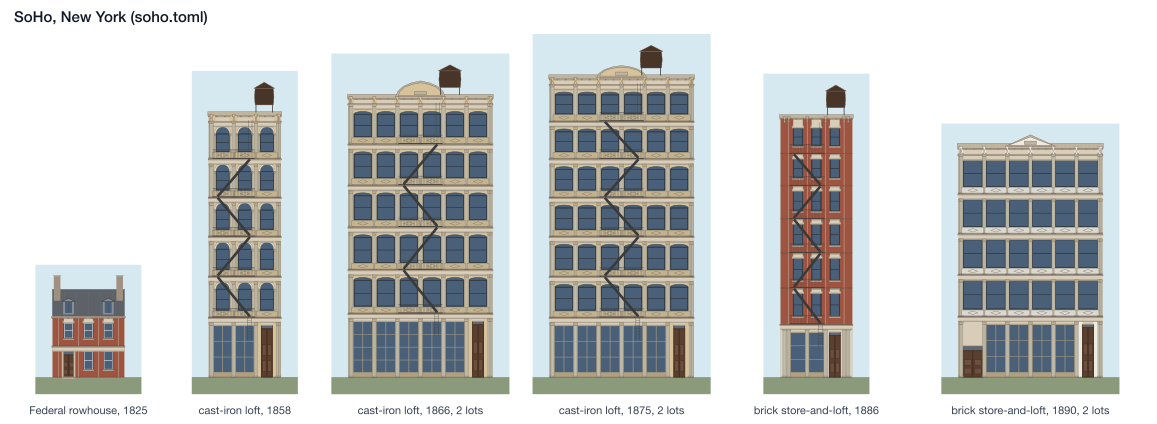
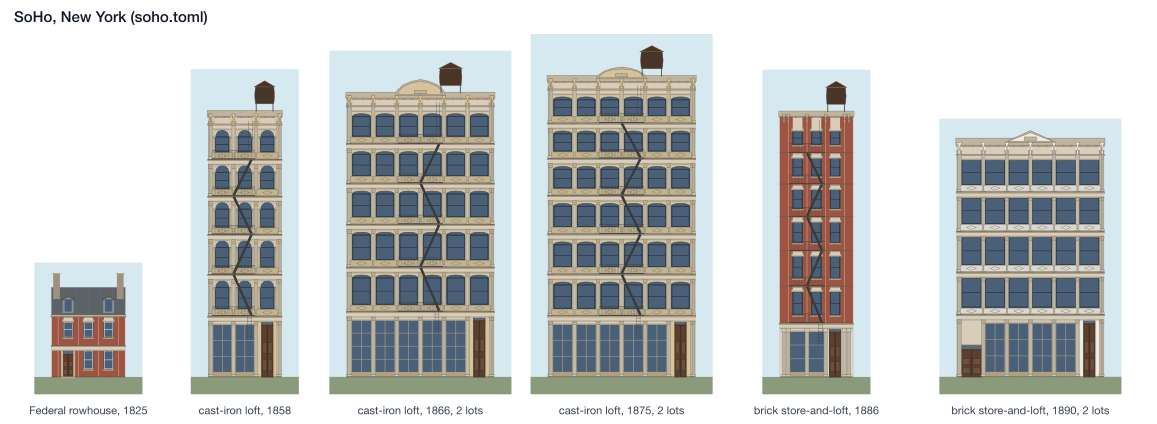
SoHo: round-3 results and final refinements
Round 3 (fresh judges): fair R 3.75 / P 3.0, sceptical none fail. Final
pass:
- the stair door fills to the store's lintel;
- columns carry real capitals and bases;
- a deeper cornice over its frieze;
- upper floors diminish;
- fire stairs at about 60 degrees over one bay, on most iron fronts.
See dev/fidelity/soho/SUMMARY.md.

diff --git a/tests/unit/test_soho.py b/tests/unit/test_soho.py
@@ -100,4 +100,4 @@ def test_storeys_get_shorter_as_they_climb():
         uppers = heights[1:]
         assert heights[0] > uppers[0], heights
         assert all(a > b for a, b in zip(uppers, uppers[1:])), heights
-        assert uppers[-1] / uppers[0] > 0.85, heights
+        assert 0.7 < uppers[-1] / uppers[0] < 0.95, heights

diff --git a/dev/fidelity/soho/round3/judge_fair.md b/dev/fidelity/soho/round3/judge_fair.md
@@ -1,0 +1,158 @@
+# SoHo round 3: blind judgement (fair judge)
+
+Judged from `images/img00.png` to `img15.png` only, against photographs on Wikimedia Commons. Flat colour rendering was ignored; the judgement covers massing, rhythm, proportion, hierarchy and characteristic elements.
+
+## Reference photographs used
+
+| Ref | Building | URL |
+|---|---|---|
+| A | E. V. Haughwout Building, 488 Broadway (1857, Venetian arched cast iron) | https://commons.wikimedia.org/wiki/File:E.V._Haughwout_Building_(52142427309).jpg |
+| B | 72-76 Greene Street, "King of Greene" (1873, cast iron, central portico pavilion) | https://commons.wikimedia.org/wiki/File:72_Greene_Street_from_south.jpg |
+| C | 28-30 Greene Street, "Queen of Greene" (1872, cast iron, mansard) | https://commons.wikimedia.org/wiki/File:28-30_Greene_Street.JPG |
+| D | Gunther Building, 469-475 Broome Street (1871-73, Neo-Grec cast iron) | https://commons.wikimedia.org/wiki/File:Gunther_Building_(12668867454).jpg |
+| E | Greene Street row: dated 1880 brick-faced loft beside a segmental-arched cast-iron front | https://commons.wikimedia.org/wiki/File:Cast_Iron_Buildings_-_SoHo_Historic_District.jpg |
+| F | Greene Street looking north (cast-iron fronts, fire escapes, brick neighbours) | https://commons.wikimedia.org/wiki/File:NYC_SoHo_Green_Street.jpg |
+| G | 68-70 Prince Street (Federal/early brick, simple stone lintels) | https://commons.wikimedia.org/wiki/File:68-70_Prince_Street.jpg |
+| H | 120-126 Prince Street (brick, corbelled cornice) | https://commons.wikimedia.org/wiki/File:120_-_126_Prince_Street.jpg |
+
+## Overall verdict
+
+Every drawing reads at once as **Lower Manhattan, SoHo / Cast Iron Historic District, c. 1855-1885**. The set has two families: cast-iron lofts (00, 01, 04, 06, 07, 12, 14, 15) and brick tenements or store-and-loft buildings over a cast-iron shopfront (02, 03, 05, 08, 09, 10, 11, 13). Recognisability is high. Plausibility is held back by a short list of repeated tells (ranked below), most of which sit at the cornice, the column capitals and the ground floor. None of the 16 passes an expert as a real building without flaws; the three narrow cast-iron fronts (06, 12, 15) come closest.
+
+## Per drawing
+
+**img00**: SoHo/Broadway cast-iron loft, Italianate, c. 1865-70. 6 bays, 4 loft storeys over a shopfront, segmental pediment with nameplate on the cornice. **R 4 · P 3 · WITH FLAWS.**
+- The pilasters have no capitals, only a small trapezoid block. Every real front (A, B, C, F) has a full Corinthian or Composite capital, which is the strongest sign of the type.
+- The segmental window heads are a blue cap sitting on a rectangular sash, with no archivolt moulding and no keystone. Compare the moulded arches on C and the cast-iron front in E.
+- All four upper storeys are the same height. In C the storeys clearly diminish upward.
+- At the ground floor a door sits low in the left bay with a blank cream panel above it, beside full-height shop glazing (see Giveaway 1).
+- The segmental pediment is a good touch and a plausible centre emphasis.
+
+**img01**: Same type, c. 1860-70, with balustraded sill panels in the manner of the Haughwout. Water tower. **R 4 · P 3 · WITH FLAWS.**
+- Same capital-less pilasters and frameless segmental caps as 00. The balustrades sit inside the bay as flat panels; on the Haughwout (A) the balustrade runs as a continuous projecting balcony band over the entablature, broken only by column pedestals.
+- The water tower legs stand on the cornice line in front of the parapet. In a true elevation the tank sits set back, its legs hidden behind the cornice.
+- The ground floor (5 shop bays plus a framed door) is the most believable in the set.
+
+**img02**: Lower Manhattan / South Village old-law tenement, c. 1880-95. 3 bays, 5 storeys of red brick over a cast-iron shopfront, full-width fire escape. **R 4 · P 3 · WITH FLAWS.**
+- The top-floor lintels are tall plain blocks that run up into the cornice, and there is no frieze. Real tenements (E, left building, dated 1880 in its frieze) have a continuous panelled frieze 0.6-0.9 m deep under the cornice, with brick between the top lintels and that frieze.
+- The cornice brackets are not aligned with the bays (paired at the ends, then irregular).
+- Faint hairlines on the brick at the bay lines read like panel joints and suggest precast panels rather than brick.
+- The fire-escape stairs slope at about 38°, across nearly the full balcony. Real NYC escape stairs are steep (about 55-65°) and run about one bay. Compare E and F.
+- Clustered paired pilasters at both ends of the shopfront appear here and on every brick drawing. That is plausible once, but it has become a stamp.
+
+**img03**: Buff-brick store-and-loft building, c. 1870-80. 11 bays, 5 storeys, fire escape over 3 bays, water tower. **R 3 · P 2 · NO.**
+- These are tenement-sized punched windows (void about 50% of bay width) stretched across 11 bays. Real brick lofts of this width (E, left building) have larger windows with moulded or pedimented lintels and a void of about 60-65%, often with segmental arches. As drawn, it reads as a tenement copied sideways.
+- 11 identical bays with no centre or end emphasis, and no frieze under the cornice.
+- The floor lines are drawn as hairlines across the brick, with no string course or sill course.
+
+**img04**: Venetian-palazzo cast iron, c. 1857-70, closest in vocabulary to the Haughwout (A). 9 bays, 5 loft storeys, round-arched windows with archivolts and imposts. **R 4 · P 3 · WITH FLAWS.**
+- A 9-bay front with no centre pavilion, end pavilions or pediment. The wide real fronts (B: projecting 3-bay portico with pediment; C: three mansard pavilions) always mark a hierarchy.
+- The arched windows are framed by small flat strips. On A each arch springs from engaged colonnettes with capitals, and the larger columns between bays carry their own capitals.
+- The ground floor has only one door in 9 bays, at the extreme left. A front this wide normally has a central or second loft entrance.
+
+**img05**: 7-bay red-brick tenement or store-and-loft building, c. 1875-90, fire escape over the central 3 bays, water tower. **R 4 · P 3 · WITH FLAWS.**
+- Same frieze-less cornice with tall top lintels, hairlines on the brick and shallow fire-escape stairs as 02.
+- The left door has a blank panel above it.
+- All the lintels in the set are the same simple shelf. Real examples vary (E: eared, pedimented; G: plain stone; Neo-Grec incised on many Broome Street tenements).
+
+**img06**: Narrow Neo-Grec cast-iron loft, c. 1875-85 (a Greene/Mercer Street type). 3 bays, 5 loft storeys, flat-headed wide windows, fire escape over 2 bays. **R 4 · P 4 · WITH FLAWS.**
+- This is the strongest drawing. The proportions (large void, thin piers, diamond spandrel panels) match the later Greene Street fronts and D.
+- The pilasters still have no capitals, and the inter-storey entablatures are flat bands with no cornice moulding or projection line.
+- The fire-escape gooseneck ladder stops below the cornice. It should rise over the parapet.
+
+**img07**: 3-bay cast iron with segmental heads, c. 1870, full-width fire escape. **R 4 · P 3 · WITH FLAWS.**
+- The ground floor has two doors in three bays (one low, under a blank panel; one in a black recess) and only one shop bay. On a 25 ft front that is one door too many.
+- The thin dark outline down the ground-floor edges reads as a drawing artefact.
+- It has the same frameless segmental caps as 00.
+
+**img08**: 7-bay brick tenement or loft, c. 1870-85, no fire escape, no tower. **R 3 · P 3 · WITH FLAWS.**
+- A 6-storey, 7-bay walk-up on a SoHo street front with no fire escape is unusual. The frieze-less cornice and hairline grid are the same as in 02.
+- The ground floor (door plus 6 shop bays) is reasonable.
+
+**img09**: 7-bay brick, c. 1875-90, fire escape over 2 bays, doors at both ends. **R 4 · P 3 · WITH FLAWS.**
+- The right door sits under a blank panel. The other issues are the same as 05.
+
+**img10**: 3-bay brick tenement, c. 1870-85, no fire escape. **R 3 · P 2 · NO.**
+- The ground floor has two doors of different heights (one full height, one low under a blank panel) flanking a single shop bay. No real 25 ft storefront looks like this.
+- A 5-storey, 3-bay tenement with no front fire escape is possible but uncommon.
+- The cornice and frieze have the same problem as 02.
+
+**img11**: 7-bay brick, c. 1875-90, 1-over-1 sash, fire escape over the left 3 bays. **R 4 · P 3 · WITH FLAWS.**
+- The 1/1 sash is a believable later replacement. The cornice, frieze and fire-escape angle have the same faults as 02.
+
+**img12**: Narrow cast iron with segmental heads, c. 1870-80, 3 bays, 1/1 sash, fire escape over 2 bays. **R 4 · P 4 · WITH FLAWS.**
+- The massing and void ratio are good. The segmental caps have no archivolt, the pilasters have no capitals, and the storeys are all the same height.
+- The ground floor (2 shop bays plus a framed door) is believable.
+
+**img13**: 11-bay red-brick tenement or loft, c. 1875-90, fire escape over the left 3 bays, doors at both ends. **R 3 · P 2 · NO.**
+- If residential, an 11-bay tenement front with a single fire escape over 3 bays cannot serve the apartments in the other 8 bays. Real wide tenements carry 2-3 escapes or are several buildings of 3-5 bays with party-wall breaks and separate cornices.
+- If a loft, the windows are too small (the same issue as 03).
+- The left door has a blank panel above it, and there is no hierarchy across 11 bays.
+
+**img14**: Venetian arched cast iron with balustrade panels, c. 1857-70, 6 bays. **R 4 · P 3 · WITH FLAWS.**
+- This is a good Haughwout echo. The issues are missing capitals, constant storey heights, the left door under a blank panel, and the balustrade drawn as an in-bay panel rather than a continuous balcony band.
+
+**img15**: Narrow Neo-Grec cast iron, c. 1875-85, 3 bays, full-width fire escape. **R 4 · P 4 · WITH FLAWS.**
+- Along with 06, the most convincing in the set. The fire escape behaves well over the large windows, and the ground floor (2 shop bays plus a framed door) is right.
+- The issues are capital-less pilasters, flat entablatures, shallow stairs and the gooseneck stopping short.
+
+## Top giveaways across all 16, ranked, with fixes
+
+1. **The low door under a blank panel** (00, 03, 05, 07, 09, 10, 13, 14). This is the single most repeated tell. In every real storefront (D, E, F) the door and its transom fill the full opening up to the storefront lintel, level with the shop-glass heads.
+   *Fix:* door leaf height = 0.72-0.78 of the storefront clear height, with a glazed transom filling the rest. Never use an infill panel. Allow at most one door per 25 ft of frontage, plus one loft entrance per front.
+
+2. **No capitals on the cast-iron pilasters** (all 8 cast-iron drawings and every shopfront). Corinthian capitals are the defining mark of A, B, C and F.
+   *Fix:* capital height = 1.0-1.2 × shaft width, with an abacus 1.25-1.35 × shaft width and a plinth/base 0.5 × shaft width. At loft storeys use engaged three-quarter columns rather than flat strips on about 60% of fronts.
+
+3. **A cornice with no frieze, and top-floor lintels running into it** (02, 03, 05, 08, 09, 10, 11, 13).
+   *Fix:* add a continuous frieze 0.6-0.9 m deep (about 5-7% of facade height) under the cornice slab, with recessed panels between brackets placed exactly on the bay lines (paired at the ends). Keep at least 0.4 m of brick between the top-floor lintel and the frieze. Total cornice plus frieze should be 8-10% of facade height (it is about 5% now).
+
+4. **Fire-escape geometry** (02, 03, 05, 06, 07, 09, 11, 12, 13, 15). The stairs are about 38-42° and span 2-3 bays. Real NYC stairs are steep and short (E, F).
+   *Fix:* stair angle 55-65°, horizontal run about 0.55-0.65 × floor height (roughly 1 bay), alternating direction each floor and contained inside the balcony length. Run the gooseneck ladder up and over the parapet, about 1 m above the cornice top.
+
+5. **No hierarchy on wide fronts** (03, 04, 13, and 08/09/11 less so). Real 7+ bay fronts mark a centre or ends (B: projecting 3-bay portico with pediment; C: three mansard pavilions; E: pedimented centre on the cast-iron neighbour).
+   *Fix:* for 7+ bays, about 65% odds of a 3-bay centre pavilion (paired columns, pediment or raised cornice section) or 2 end pavilions (quoins or rusticated piers, as on the right of B). About 15% odds of a mansard on cast iron. For 9+ bay brick tenements, split the front into 2-3 party-wall units with separate cornices and fire escapes instead.
+
+6. **Uniform storey heights** (all 16).
+   *Fix:* ground floor 1.35-1.5 × the typical upper floor; second floor 1.1 ×; each floor above shrinking 3-6%; top floor about 0.85-0.9 × the second.
+
+7. **Segmental and arched heads without surrounds** (00, 01, 07, 12; the arched 04 and 14 are better).
+   *Fix:* draw an archivolt moulding 6-8% of window width, with a keystone on segmental heads, springing from the capitals or imposts. Make the upper sash follow the arch, framed in the sash colour, rather than a frameless cap above a rectangle.
+
+8. **Hairline grids on the brick** (all 8 brick drawings). They read as precast panel joints.
+   *Fix:* remove them. If floor lines are wanted, use a real sill course (a stone band about 0.15 m) on about 40% of buildings.
+
+9. **Brick lofts with tenement windows** (03, 13, partly 08).
+   *Fix:* in store-and-loft brick (6+ bays), use a window-to-bay void of 0.6-0.65, with segmental-arched or pedimented and eared lintels (E). Keep the 0.5 void and shelf lintels for 3-5 bay tenements only.
+
+10. **One vocabulary across the whole set.** The same lintel, the same panelled double door and the same paired end pilasters appear on every brick front, and the same flat pilaster on every iron front. Shown side by side, the set reads as one kit.
+    *Fix:* use at least 3 lintel families (plain stone shelf, bracketed Italianate cap, eared/pedimented Neo-Grec), chosen per building. Make about 50% of doors glazed. Use single end piers on about 60% of shopfronts.
+
+11. **Missing street-level SoHo signs.** None of the drawings has a raised loading platform with vault lights and steps, and the storefront bulkheads are very thin.
+    *Fix:* on about 50% of cast-iron lofts, add a raised platform 0.5-0.9 m high across the front with 2-4 steps at one end. Make the bulkhead 0.5-0.7 m.
+
+12. **Water tanks in front of the parapet** (01, 03, 05).
+    *Fix:* set the tank back so the legs are hidden behind the cornice and only the tank and roof show. Tanks should appear on about 50% of buildings, not 3 of 16.
+
+## Scores at a glance
+
+| img | Guess | R | P | Expert at a glance |
+|---|---|---|---|---|
+| 00 | Cast-iron loft, pediment, c.1865 | 4 | 3 | WITH FLAWS |
+| 01 | Cast-iron loft, balustrades, c.1860 | 4 | 3 | WITH FLAWS |
+| 02 | 3-bay tenement, c.1885 | 4 | 3 | WITH FLAWS |
+| 03 | 11-bay buff brick loft, c.1875 | 3 | 2 | NO |
+| 04 | 9-bay Venetian cast iron, c.1860 | 4 | 3 | WITH FLAWS |
+| 05 | 7-bay brick, c.1880 | 4 | 3 | WITH FLAWS |
+| 06 | 3-bay Neo-Grec cast iron, c.1880 | 4 | 4 | WITH FLAWS |
+| 07 | 3-bay segmental cast iron, c.1870 | 4 | 3 | WITH FLAWS |
+| 08 | 7-bay brick, c.1875 | 3 | 3 | WITH FLAWS |
+| 09 | 7-bay brick, c.1880 | 4 | 3 | WITH FLAWS |
+| 10 | 3-bay tenement, c.1875 | 3 | 2 | NO |
+| 11 | 7-bay brick, c.1880 | 4 | 3 | WITH FLAWS |
+| 12 | 3-bay segmental cast iron, c.1875 | 4 | 4 | WITH FLAWS |
+| 13 | 11-bay brick tenement/loft, c.1880 | 3 | 2 | NO |
+| 14 | 6-bay Venetian cast iron, c.1860 | 4 | 3 | WITH FLAWS |
+| 15 | 3-bay Neo-Grec cast iron, c.1880 | 4 | 4 | WITH FLAWS |
+
+Mean R 3.75, mean P 3.0. Fixing giveaways 1-4 alone would likely lift most drawings to P 4.

diff --git a/dev/fidelity/soho/round3/judge_sceptical.md b/dev/fidelity/soho/round3/judge_sceptical.md
@@ -1,0 +1,155 @@
+# SoHo round 3: sceptical blind judgement
+
+Judge: independent architectural-historian pass, blind. I looked only at `images/img00.png` to `img15.png` and at reference photographs from Wikimedia Commons. Every drawing was treated as fake until it convinced me. Flat colour rendering was ignored; massing, rhythm, proportion, hierarchy and characteristic elements were judged.
+
+## Reference photographs used
+
+| Ref | Building | What it shows | URL |
+|---|---|---|---|
+| A | E. V. Haughwout Building, 488 Broadway (1857) | Round-arched bays framed by small colonnettes between larger engaged columns; balustrade at every sill; projecting entablature at every floor; deep modillioned cornice; front fire escape | https://commons.wikimedia.org/wiki/File:E._V._Haughwout_Building,_1.JPG |
+| B | 28-30 Greene Street (1872) | Segmental-arched sash that follows the arch; Corinthian capitals on every column; diamond sill panels; ground floor raised on a full-width loading platform with steps; doors with tall transoms | https://commons.wikimedia.org/wiki/File:28-31_Greene_Street.JPG |
+| C | 72-76 Greene Street (1873) | Projecting central pavilion with coupled columns and pediment; rusticated end piers; cantilevered fire-escape balconies; storeys that visibly diminish upward | https://commons.wikimedia.org/wiki/File:72_Greene_Street_from_south.jpg |
+| D | Gunther Building, 469-475 Broome Street (1871-73) | Segmental arched heads on every opening; deep frieze and bracketed cornice | https://commons.wikimedia.org/wiki/File:469-475_Broome_Street.JPG |
+| E | Greene Street row (painted brick next to cast iron) | Brick loft with pedimented and cornice-headed lintels, front fire escape with stair stringers and handrails, ground floor of cast-iron columns with capitals | https://commons.wikimedia.org/wiki/File:Cast_Iron_Buildings_-_SoHo_Historic_District.jpg |
+| F | Broome and Mercer corner, stone/iron palazzo | Paired columns per bay, balustraded sill course, cornice band roughly a third of a storey deep | https://commons.wikimedia.org/wiki/File:SoHo,_Mercer_str_%26_Broome_str_-_panoramio.jpg |
+
+## Per-drawing verdicts
+
+R = recognisability (1-5), P = plausibility (1-5).
+
+### img00
+- **Guess:** New York, SoHo, cast-iron store-and-loft, 6 bays, 5 storeys, c. 1868-75.
+- **R 4, P 3. Expert at a glance: WITH FLAWS.**
+- **Giveaways:**
+  - The windows are flat-headed rectangles with a thin segmental "lid" stuck on top. In B and D the opening itself is segmental and the sash follows the curve; here the arch is an applique.
+  - The central segmental pediment sits on the cornice like a hat, about 2 bays wide, with no answering projection in the floors below. In C the pediment crowns a projecting pavilion that runs the full height.
+  - Cornice band (slab plus brackets) is about 0.15 of a storey; in A, D and F it is roughly 0.35-0.45.
+  - All four upper storeys are identical in height; C and A both diminish.
+  - Left entrance: a short door with a blank panel filling about 40% of the bay height above its transom. Real SoHo doors are tall with deep glazed transoms (B).
+  - Pilasters have block caps, not Corinthian capitals; there is no floor-by-floor projecting entablature.
+
+### img01
+- **Guess:** New York, SoHo, cast-iron loft, 6 bays, 5 storeys, c. 1870, rooftop water tank.
+- **R 4, P 3. WITH FLAWS.**
+- **Giveaways:** same applique segmental lids on flat-headed sash; thin cornice; uniform storeys; plain pilasters without capitals. Balustraded sill panels are right (A). The storefront has no left entrance at all, so the 6-bay front has one narrow door at the right edge; a front this wide almost always has two (B, C). No fire escape on a 6-bay, 5-storey front, which is unusual (A and C both carry one).
+
+### img02
+- **Guess:** New York, red-brick Italianate, 3 bays, 6 storeys, cast-iron shopfront, c. 1855-70. Reads as much Lower East Side tenement as SoHo loft.
+- **R 3, P 3. WITH FLAWS.**
+- **Giveaways:**
+  - The top-floor lintels swell into tall blank blocks running up to the cornice. I found no SoHo precedent; E shows uniform lintels and a separate frieze.
+  - Cornice is a thin slab with small teardrop brackets; no frieze, no modillions.
+  - Fire-escape stairs are drawn as a single diagonal line with no second stringer or handrail (compare E, where each run is a clear band with rails).
+  - Faint vertical lines at every pier read as panel joints, not brickwork.
+
+### img03
+- **Guess:** New York, painted-brick loft, 11 bays, 6 storeys, c. 1860s.
+- **R 3, P 2. WITH FLAWS.**
+- **Giveaways:** horizontal lines drawn across the brick at every floor (painted brick shows no floor joints); windows only about 40% of bay width, a tenement ratio rather than a loft ratio (lofts in E and F are 55-70%); 11 identical bays with no central emphasis, no end piers and no change of rhythm; the fire escape is pinned to the three left bays of an 11-bay front with nothing else breaking it. Left door has the same blank panel above it.
+
+### img04
+- **Guess:** New York, SoHo, cast-iron "Venetian palazzo", 9 bays, 5 storeys, c. 1857-65, Haughwout-derived.
+- **R 4, P 3. WITH FLAWS.**
+- **Giveaways:** Haughwout (A) is the obvious model, but its defining feature, the small colonnettes framing every arch inside the larger order, is missing; arches have a white archivolt but no keystone or impost block; the arched head is a blue cap above a rectangular sash rather than an arched sash. Only one entrance on a 9-bay front, at the far left. No fire escape. All five storeys equal.
+
+### img05
+- **Guess:** New York, red-brick loft, 7 bays, 5 storeys, cast-iron ground floor, central fire escape, water tank, c. 1860s.
+- **R 3, P 3. WITH FLAWS.**
+- **Giveaways:** tall top-floor lintel blocks again; thin cornice; single-line fire-escape stairs; the left door with a blank wall above. The central 3-bay fire escape and the drop ladder in front of the shop glass are both right.
+
+### img06
+- **Guess:** New York, narrow cast-iron front, 3 bays, 6 storeys, c. 1875-85.
+- **R 3, P 3. WITH FLAWS.**
+- **Giveaways:** plain flat-headed openings with no arch, no colonnettes and no capitals read later and plainer than SoHo's cast iron (closer to 1890s Tribeca or a generic commercial front); diamond spandrels are good (B). Fire escape over two bays is right for a 25-ft lot, but its stair is a single line.
+
+### img07
+- **Guess:** New York, SoHo, narrow cast-iron front, 3 bays, 5 storeys, c. 1870.
+- **R 4, P 3. WITH FLAWS.**
+- **Giveaways:** applique segmental lids; full-width fire escape good; the right door is framed in heavy black jambs that read as a modern insertion beside a 19th-century left door with a blank panel above it, so the ground floor looks half-renovated. Thin cornice.
+
+### img08
+- **Guess:** New York, red-brick loft, 7 bays, 5 storeys, c. 1860s.
+- **R 3, P 3. WITH FLAWS.**
+- **Giveaways:** top-floor lintel blocks; thin cornice; drawn floor lines and pier lines on the brick; identical lintels on every floor (no hierarchy between the second floor and the top, which E shows). No fire escape on a 5-storey 7-bay front: possible, but not the norm.
+
+### img09
+- **Guess:** New York, red-brick loft, 7 bays, 5 storeys, central fire escape, c. 1860s.
+- **R 3, P 3. WITH FLAWS.**
+- **Giveaways:** close-up shows the cornice is a ~45 px slab on a ~500 px storey (about 0.09 storey), with ~55 px brackets; total about 0.2 storey. Ground-floor right door is short with a blank panel above it. Otherwise the most convincing of the brick set: good fire-escape placement, cast-iron pilasters at ground floor, ground storey about 1.35 times an upper storey.
+
+### img10
+- **Guess:** New York, red-brick, 3 bays, 5 storeys, c. 1860s.
+- **R 3, P 3. WITH FLAWS.**
+- **Giveaways:** two doors of different heights and one shop window on a 3-bay ground floor is plausible, but the right double door with a blank panel above reads as a filler. No fire escape on a narrow 5-storey front is the rarer case. Thin cornice, top-floor lintel blocks.
+
+### img11
+- **Guess:** New York, red-brick loft, 7 bays, 5 storeys, fire escape at left, c. 1860s.
+- **R 3, P 3. WITH FLAWS.**
+- **Giveaways:** the same lintel, cornice, bracket and ground-floor template as img08, img09 and img13; seen together the set is visibly one recipe. Single-line stairs.
+
+### img12
+- **Guess:** New York, SoHo, narrow cast-iron front, 3 bays, 6 storeys, c. 1870.
+- **R 3, P 2. WITH FLAWS.**
+- **Giveaways:** the right bay alone has a solid grey spandrel with a round medallion while the other two have balusters behind the fire escape; it reads as a rendering fault, not a design. The right door has grey jambs unlike anything else on the front.
+
+### img13
+- **Guess:** New York, red-brick store-and-loft, 11 bays, 5 storeys, c. 1860s.
+- **R 3, P 3. WITH FLAWS.**
+- **Giveaways:** 11 identical bays with no centre, end piers or pavilion; a nine-bay continuous shopfront under one lintel; one 3-bay fire escape at the left. Thin cornice and tall top lintels.
+
+### img14
+- **Guess:** New York, SoHo, cast-iron Venetian palazzo, 6 bays, 5 storeys, c. 1857-65.
+- **R 4, P 3. WITH FLAWS.** The strongest drawing in the set.
+- **Giveaways:** close-up shows the arch is a blue semicircle sitting on a square sash with a transom bar at the springing line; in A the sash itself is arched. Pilasters are plain shafts with a block cap; A and B have full Corinthian capitals. Cornice brackets are baluster-shaped "dumbbells"; real cornice brackets are scrolled consoles with modillions and dentils between (A, D). Left door with blank panel above.
+
+### img15
+- **Guess:** New York, narrow cast-iron front, 3 bays, 6 storeys, c. 1875-85.
+- **R 3, P 3. WITH FLAWS.**
+- **Giveaways:** same as img06: flat heads, no order, reads later and plainer than SoHo cast iron; single-line fire-escape stairs; thin cornice.
+
+## Summary
+
+| img | Type | R | P | Glance |
+|---|---|---|---|---|
+| 00 | cast iron, 6 bay, pediment | 4 | 3 | WITH FLAWS |
+| 01 | cast iron, 6 bay, tank | 4 | 3 | WITH FLAWS |
+| 02 | brick, 3 bay | 3 | 3 | WITH FLAWS |
+| 03 | painted brick, 11 bay | 3 | 2 | WITH FLAWS |
+| 04 | cast iron arcade, 9 bay | 4 | 3 | WITH FLAWS |
+| 05 | brick, 7 bay | 3 | 3 | WITH FLAWS |
+| 06 | cast iron, 3 bay, flat | 3 | 3 | WITH FLAWS |
+| 07 | cast iron, 3 bay | 4 | 3 | WITH FLAWS |
+| 08 | brick, 7 bay | 3 | 3 | WITH FLAWS |
+| 09 | brick, 7 bay | 3 | 3 | WITH FLAWS |
+| 10 | brick, 3 bay | 3 | 3 | WITH FLAWS |
+| 11 | brick, 7 bay | 3 | 3 | WITH FLAWS |
+| 12 | cast iron, 3 bay | 3 | 2 | WITH FLAWS |
+| 13 | brick, 11 bay | 3 | 3 | WITH FLAWS |
+| 14 | cast iron arcade, 6 bay | 4 | 3 | WITH FLAWS |
+| 15 | cast iron, 3 bay, flat | 3 | 3 | WITH FLAWS |
+
+Every drawing reads at once as New York, and none would fool a specialist. None is a NO: a lay viewer would accept all sixteen. The cast-iron fronts are recognisably SoHo; the brick fronts are recognisably New York but drift towards tenement.
+
+## Top giveaways across the set, ranked, with fixes
+
+1. **Cornice far too shallow (all 16).** Measured about 0.09 storey for the slab and about 0.2 storey including brackets. Fix: cornice zone (frieze plus brackets plus crown) at 0.35-0.45 of the top storey's height; frieze 0.15 storey; scrolled console brackets 0.2-0.25 storey tall, spaced at every pier plus one or two between; crown projection at least 0.6 times its own height; add a modillion or dentil row under the crown.
+
+2. **Arches are lids, not openings (00, 01, 04, 07, 12, 14).** Fix: make the sash follow the head. Segmental heads with a rise of 0.12-0.18 of the opening width for the common SoHo type (B, D); full semicircles only for the palazzo type (A), and then with an arched upper sash, a keystone and impost blocks. Odds: segmental 70%, round 20%, flat 10% for cast iron.
+
+3. **No classical order on cast-iron piers (all cast iron).** Fix: give every pier an engaged column or pilaster with a Corinthian capital (capital height about 1.1 times shaft diameter) and a projecting entablature at each floor (0.08-0.1 storey). For the round-arch type, add colonnettes framing each arch (A). Add rusticated or quoined end piers on about 40% of fronts (C).
+
+4. **Blank panel above short doors (00, 03, 05, 07, 09, 10, 13, 14).** Fix: run the door plus transom to the full storefront height; transom 0.25-0.35 of the opening, glazed. Never leave solid infill above a door in a cast-iron storefront.
+
+5. **Equal storey heights (all 16).** Fix: second floor 1.0, then 0.96, 0.92, 0.88, top 0.85 (or a 4% step); ground floor 1.3-1.45 times the second floor. Keep the cornice tied to the top storey after the change.
+
+6. **Fire-escape stairs drawn as one line (02, 05, 06, 07, 09, 11, 12, 13, 15).** Fix: draw each run as a band about 0.08 storey thick with two stringers and a handrail, treads hinted. Odds of a front fire escape: 85% on 3-bay fronts, 65% on wider cast-iron fronts (currently 0 of 5 wide cast-iron fronts have one).
+
+7. **Tall blank top-floor lintel blocks on brick fronts (02, 05, 08, 09, 10, 11, 13).** Fix: top-floor lintels the same height as the others, about 0.12 of the window height, with a separate frieze band beneath the cornice. Vary the brick-front lintel type per building: cornice-head 50%, pedimented 25%, segmental 25% (E).
+
+8. **No raised ground floor or loading platform (all 16).** Fix: raise the shop floor 0.6-1.0 m above the sidewalk with a full-width iron platform or 2-4 steps (B), plus a vault-light strip, on about 60% of fronts.
+
+9. **Repetition across the set (brick fronts 05, 08, 09, 11, 13 and storefronts generally).** Same paired fluted end pilasters, same teardrop brackets, same lintel profile. Fix: vary bracket form (scroll, paired, foliate), ground-floor column type and end-pier treatment per building; give fronts of 7 or more bays a central emphasis (wider centre bay, pediment, or projecting pavilion as in C) about half the time.
+
+10. **Wide fronts with a single entrance and tenement window ratios (01, 03, 04).** Fix: two entrances on fronts of 6 or more bays (one to the store, one to the upper lofts); upper-floor glazing 55-70% of bay width on lofts (03 is near 40%).
+
+11. **Inconsistent bay (12).** Fix: spandrel treatment must be identical across bays unless it marks an axis.

diff --git a/dev/fidelity/soho/SUMMARY.md b/dev/fidelity/soho/SUMMARY.md
@@ -1,0 +1,27 @@
+# SoHo cast iron: three review rounds
+
+R is recognisability and P is plausibility, each out of 5. Each round's key sits beside its images.
+
+| Round | Method | Result |
+|---|---|---|
+| Round 1 | A photo-only observer, an adversary testing the rules against photographs, and a grader | Ironwork D. Proportions, openings, ground floor, top, ornament and variety C. Colour B (`grading.md`) |
+| Round 2 | 16 blind drawings, two judges | Fair judge: R 3.6, P 2.6 (iron fronts P 3, masonry P 2), none clean. Sceptical judge: R 3.4, P 2.8, 5 fail (four brick lofts without lintels, a pediment on plain brick) |
+| Round 3 | 16 fresh blind drawings, two new judges | Fair judge: R 3.75, P 3.0, three at P 4. Sceptical judge: none fail, all 16 with flaws |
+
+## After round 3 (applied, not judged again)
+
+- **Stair door:** the door and its transom now fill the opening up to the store's lintel, with no blank panel over the door.
+- **Columns:** loft columns have real capitals (0.38 m) and bases.
+- **Cornice:** it projects 1.4 m on iron fronts and 1.2 m on brick ones, over a deeper frieze. A brick top floor leaves 0.3 m of wall under it.
+- **Storey heights:** upper floors diminish about 4% a floor.
+- **Fire escapes:**
+  - Each stair now runs at about 60° across one bay, drawn as two stringers.
+  - Fire escapes appear on 70% of iron fronts.
+
+## Still open
+
+- Centre or end emphasis on wide fronts (a pavilion or paired columns).
+- Arched sashes under arched heads.
+- A raised loading platform with steps.
+- The Neo-Grec family of the 1870s.
+- Corner buildings.
